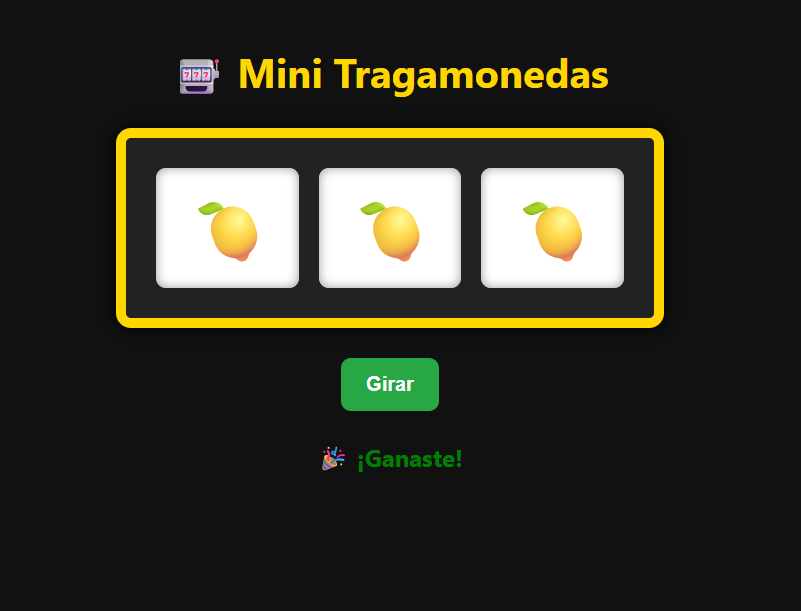
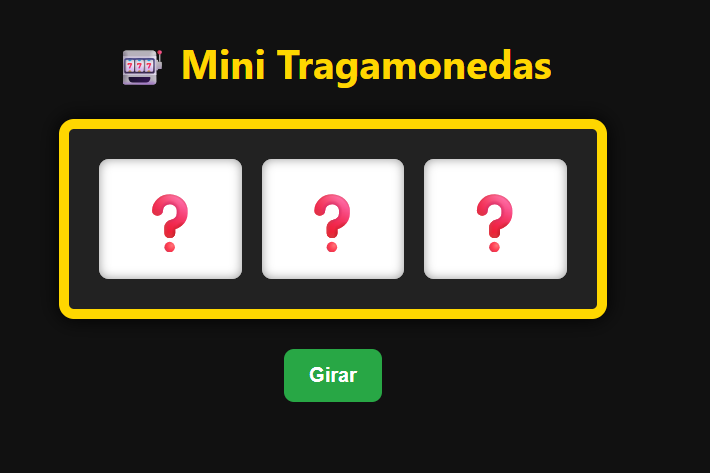
Add files via upload

Changed region(s): [[0.062, 0.0888, 0.8676, 0.6808], [0.4028, 0.7104, 0.5887, 0.8584]]

diff --git a/README.md b/README.md
@@ -182,4 +182,6 @@ La lógica del juego será programada por los estudiantes en las siguientes clas
 ![Vista inicial](img/pantalla1.png)
 
 ### 🎉 Después de girar (cuando se agregue JavaScript)
-![Vista resultado](img/pantalla2.png)
+![Vista resultado 1](img/pantalla2.png)
+
+![Vista resultado 2](img/pantalla3.png)
